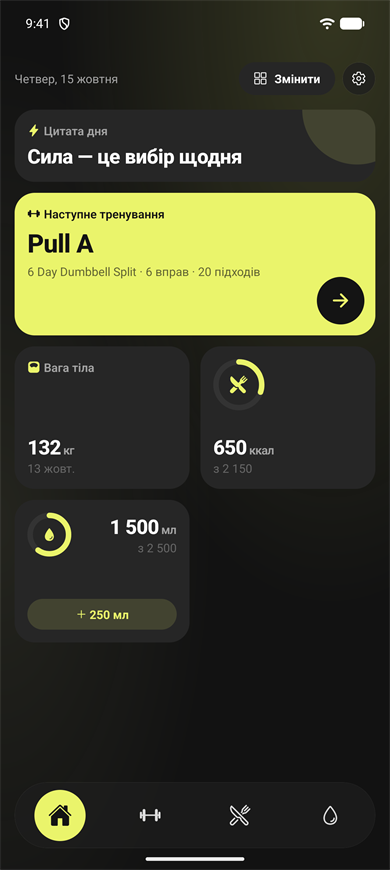
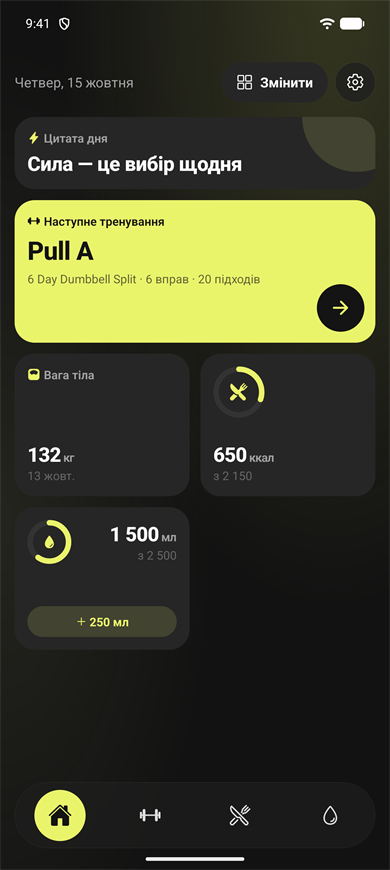
Open the app on Home and roomier spacing
The root Stack mounts only once the database is ready, after the launch
URL was read, so it opened its first declared screen, the exercise
editor, instead of the tabs. (tabs) is now declared first.

Cards space their contents 12 px apart instead of 8 across the app, and
the Home header matches the other screens: 44 px buttons and a larger
date. The Home screenshot is retaken.

diff --git a/src/app/(tabs)/index.tsx b/src/app/(tabs)/index.tsx
@@ -58,21 +58,17 @@ export default function HomeScreen() {
         ]}>
         <View style={styles.greeting}>
           <Row style={styles.spaceBetween}>
-            <Text variant="caption">{formatLongDate(data.loadedAt)}</Text>
+            <Text variant="secondary">{formatLongDate(data.loadedAt)}</Text>
             <Row>
               <Button
                 title={editing ? 'Готово' : 'Змінити'}
                 icon={editing ? 'checkmark' : 'grid-outline'}
                 variant={editing ? 'primary' : 'secondary'}
-                small
                 onPress={toggleEditing}
+                style={styles.editButton}
               />
               {!editing && (
-                <CircleButton
-                  icon="settings-outline"
-                  size={36}
-                  onPress={() => router.push('/settings')}
-                />
+                <CircleButton icon="settings-outline" onPress={() => router.push('/settings')} />
               )}
             </Row>
           </Row>
@@ -166,6 +162,8 @@ const styles = StyleSheet.create({
   content: { paddingHorizontal: spacing.lg, gap: spacing.lg, flexGrow: 1 },
   greeting: { gap: spacing.xs, marginTop: spacing.sm },
   spaceBetween: { justifyContent: 'space-between' },
+  // As tall as the 44 px CircleButtons used in every screen header.
+  editButton: { minHeight: 44, paddingHorizontal: spacing.lg },
   overlay: { position: 'absolute', top: 0, right: 0, bottom: 0, left: 0 },
   scrim: {
     position: 'absolute',

diff --git a/src/app/_layout.tsx b/src/app/_layout.tsx
@@ -68,6 +68,11 @@ export default function RootLayout() {
             headerShown: false,
             contentStyle: { backgroundColor: colors.background },
           }}>
+          {/*
+            First on purpose: the Stack mounts only once the database is ready,
+            after the launch URL was read, and then opens its first screen.
+          */}
+          <Stack.Screen name="(tabs)" />
           <Stack.Screen name="exercise/edit" options={{ presentation: 'modal' }} />
           <Stack.Screen name="pick-exercise" options={{ presentation: 'modal' }} />
           <Stack.Screen name="widgets" options={{ presentation: 'modal' }} />

diff --git a/src/components/ui.tsx b/src/components/ui.tsx
@@ -512,7 +512,7 @@ const styles = StyleSheet.create({
     backgroundColor: colors.surface,
     borderRadius: radius.lg,
     padding: spacing.lg,
-    gap: spacing.sm,
+    gap: spacing.md,
   },
   pressed: { opacity: 0.7 },
   dimmed: { opacity: 0.35 },
